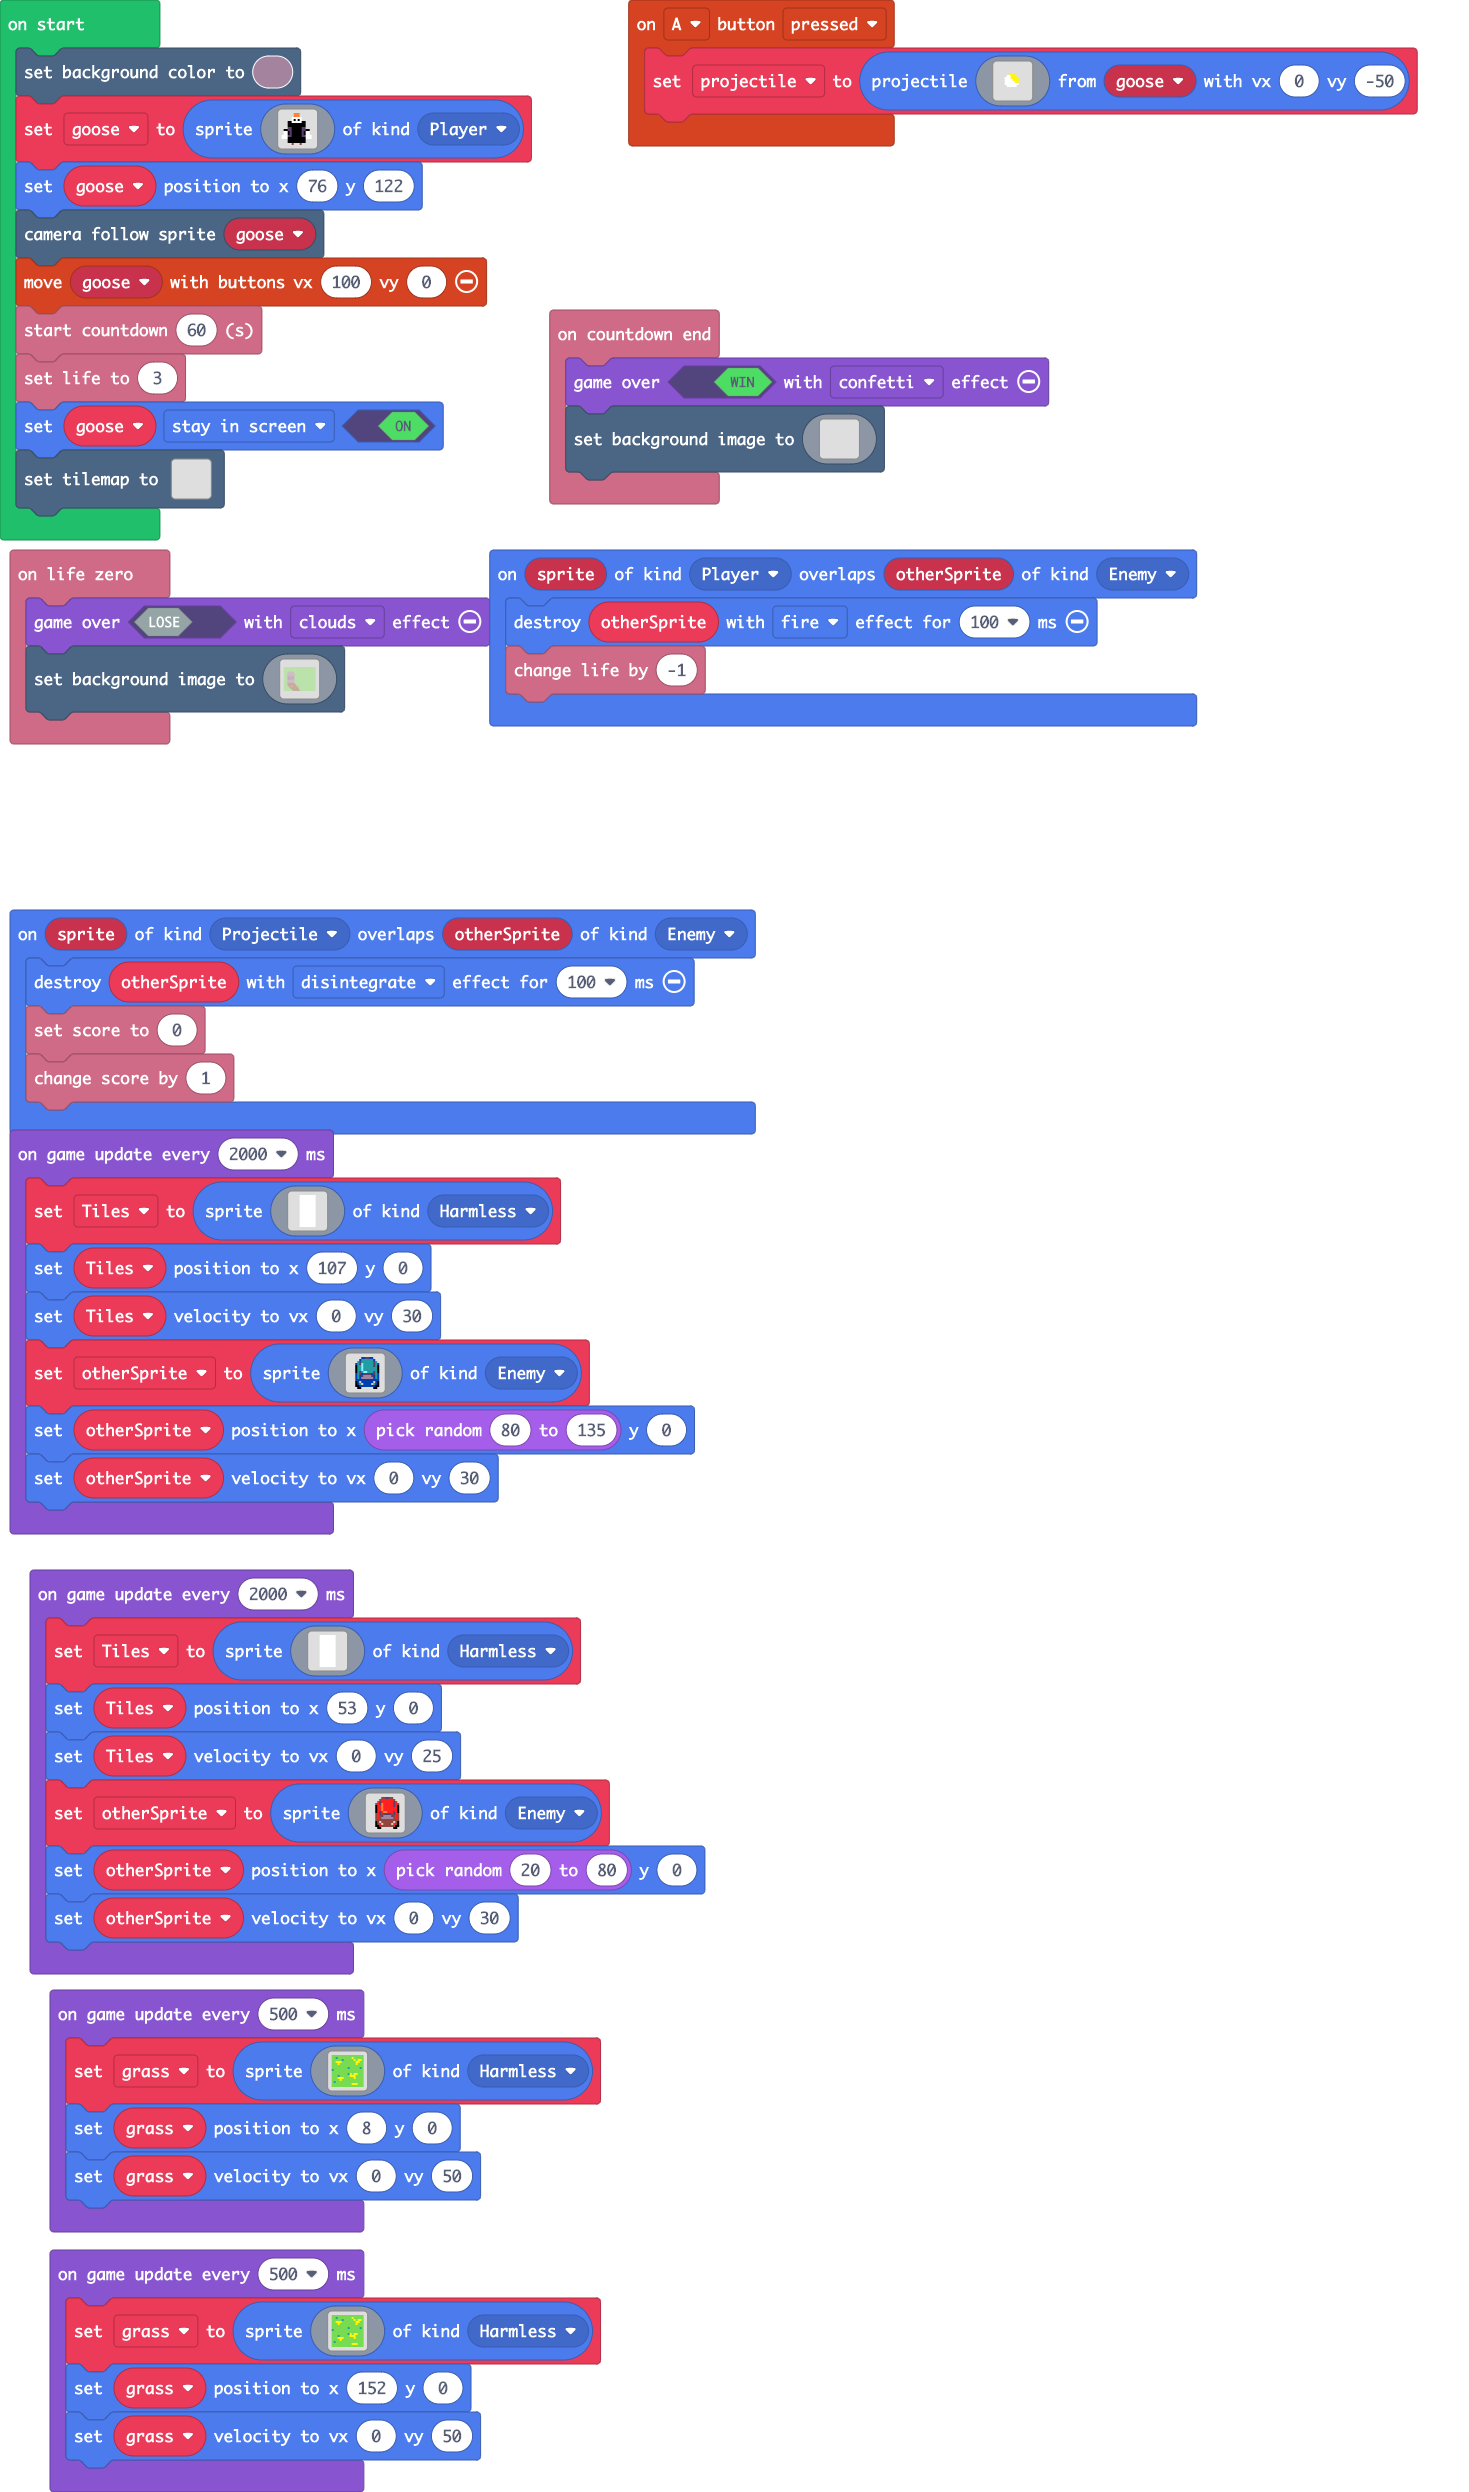
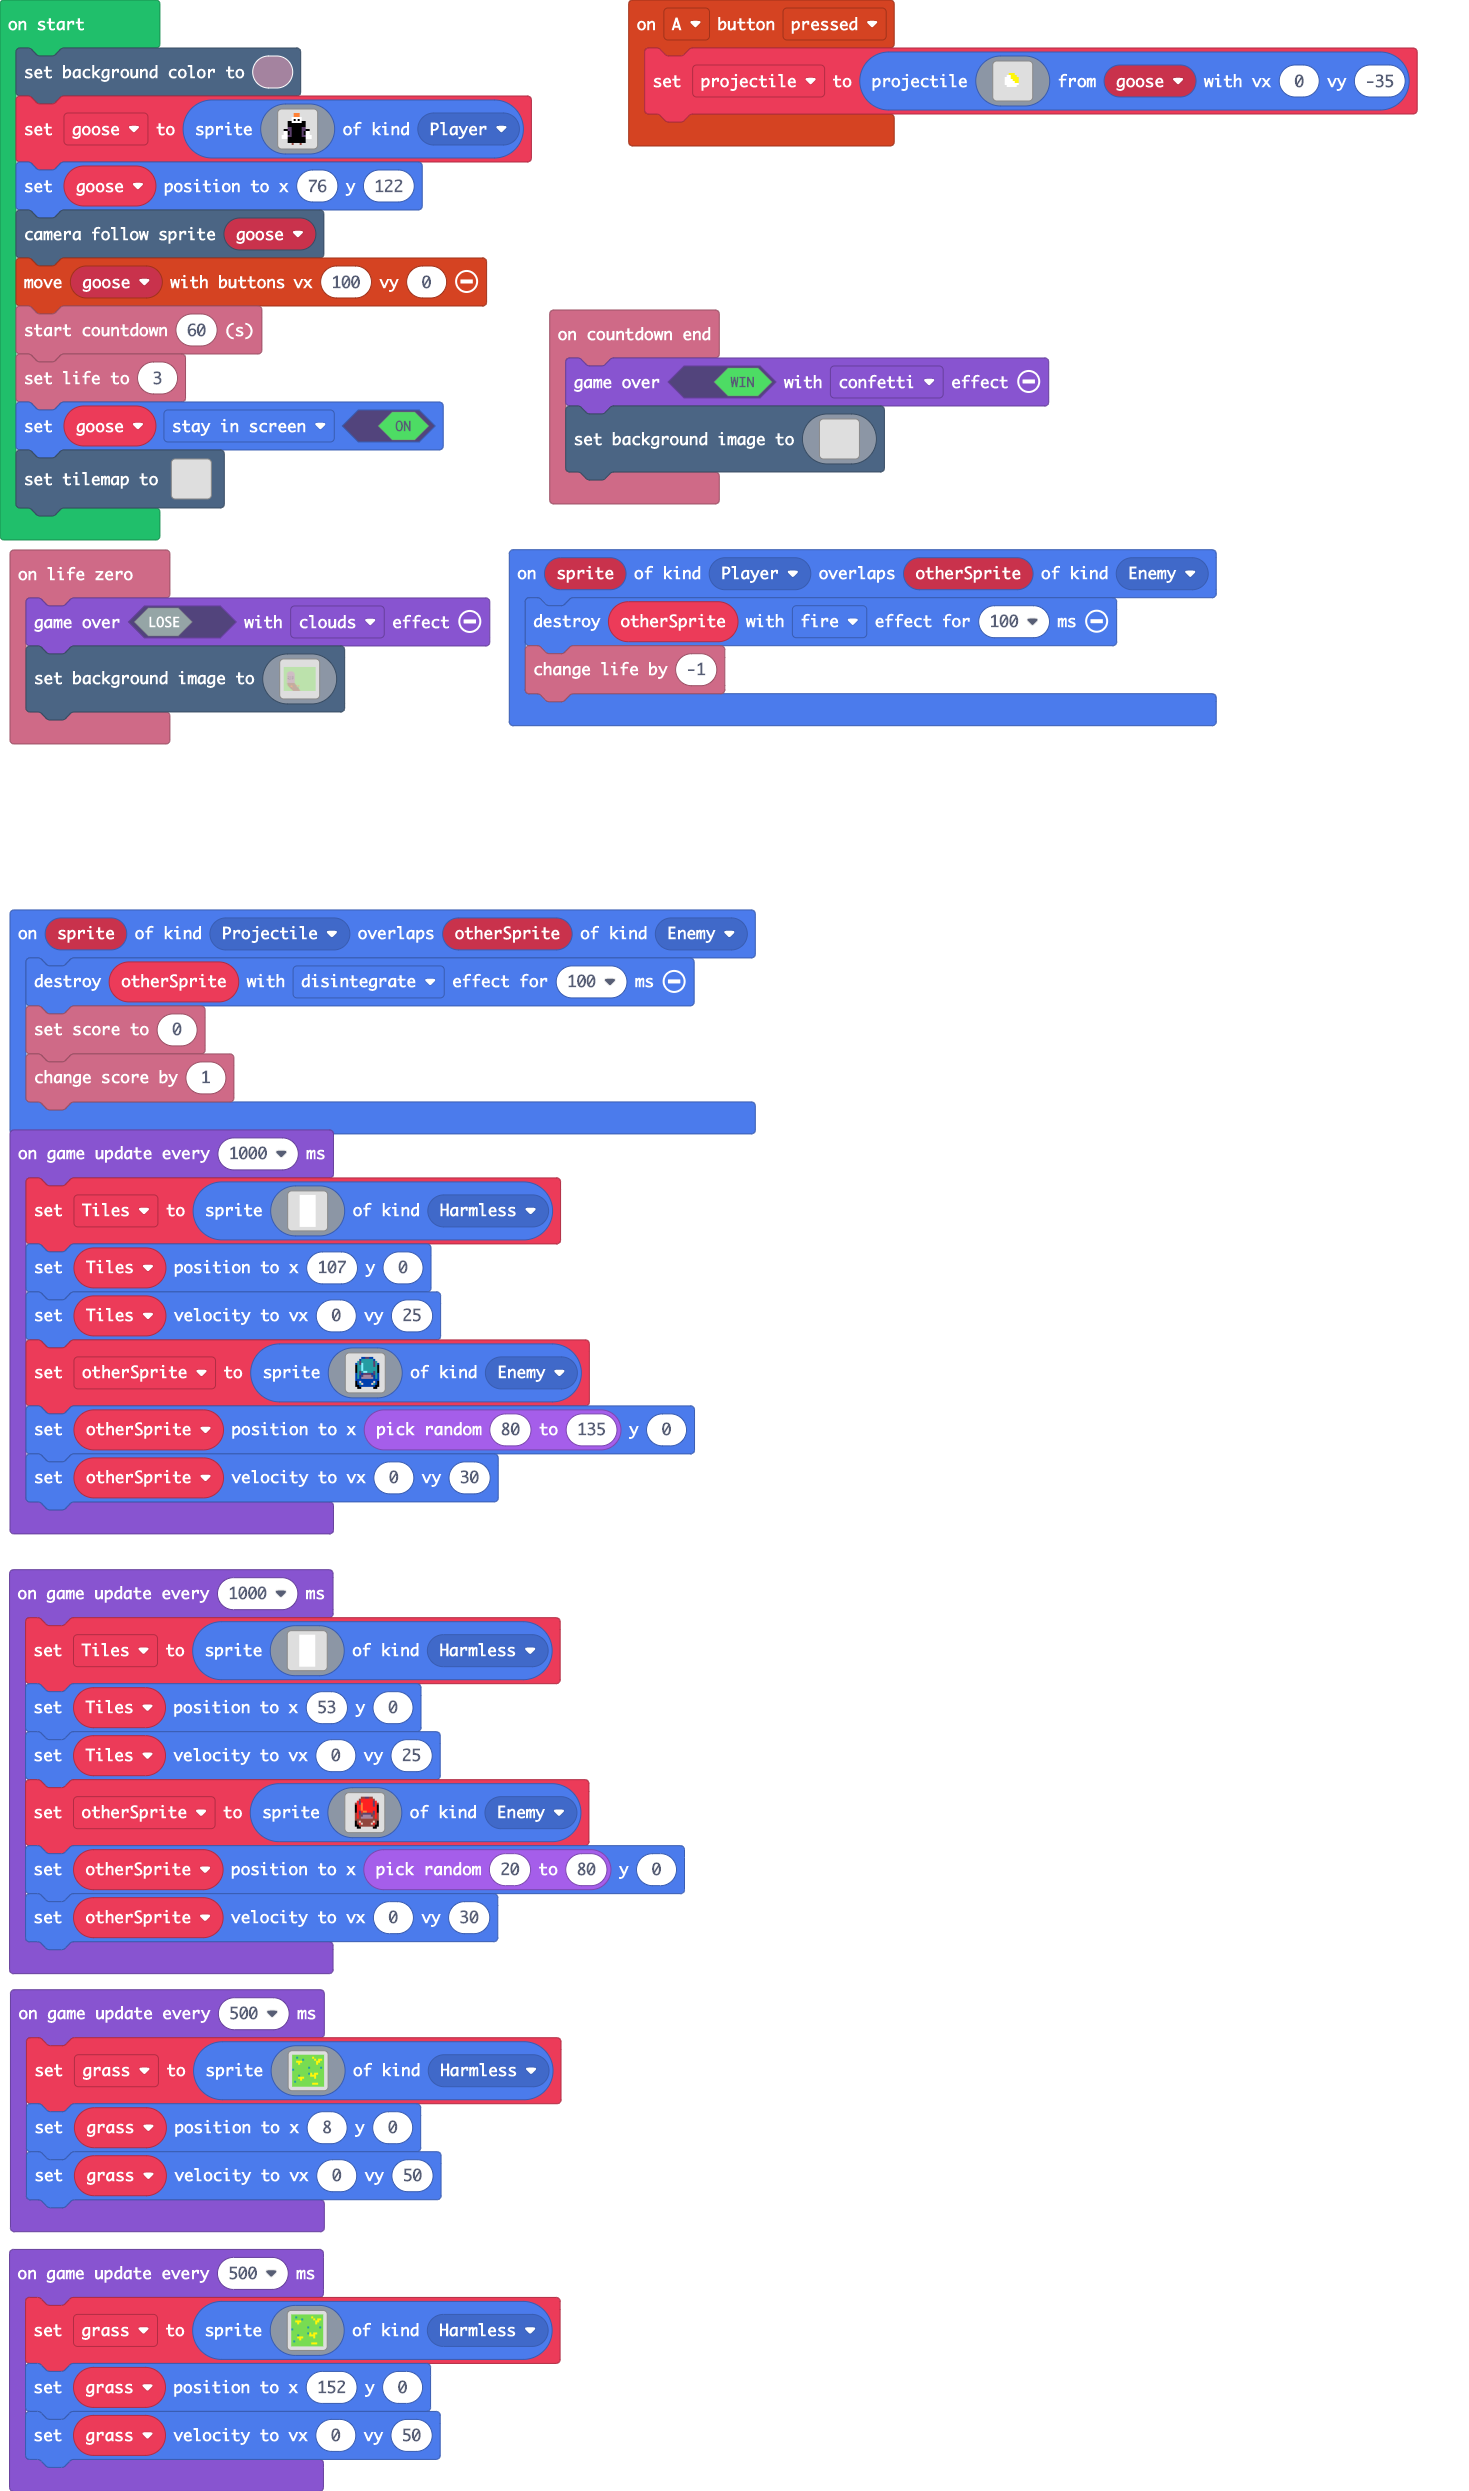
Sudhish - Edit 6

diff --git a/main.ts b/main.ts
@@ -19,7 +19,7 @@ controller.A.onEvent(ControllerButtonEvent.Pressed, function () {
         . . . . . . . . . . . . . . . . 
         . . . . . . . . . . . . . . . . 
         . . . . . . . . . . . . . . . . 
-        `, goose, 0, -50)
+        `, goose, 0, -35)
 })
 info.onCountdownEnd(function () {
     game.over(true, effects.confetti)
@@ -328,7 +328,7 @@ tiles.setTilemap(tiles.createTilemap(hex`0a0010000000000000000000000000000000000
     2 . . . . . . . . 2 
     2 . . . . . . . . 2 
     `, [myTiles.transparency16], TileScale.Sixteen))
-game.onUpdateInterval(2000, function () {
+game.onUpdateInterval(1000, function () {
     Tiles = sprites.create(img`
         . . . . 1 1 1 1 1 1 1 1 . . . . 
         . . . . 1 1 1 1 1 1 1 1 . . . . 
@@ -348,7 +348,7 @@ game.onUpdateInterval(2000, function () {
         . . . . 1 1 1 1 1 1 1 1 . . . . 
         `, SpriteKind.Harmless)
     Tiles.setPosition(107, 0)
-    Tiles.setVelocity(0, 30)
+    Tiles.setVelocity(0, 25)
     otherSprite = sprites.create(img`
         . . . . . . 8 8 c c 8 8 . . . . 
         . . . . . 8 6 6 6 6 6 6 8 . . . 
@@ -370,7 +370,7 @@ game.onUpdateInterval(2000, function () {
     otherSprite.setPosition(randint(80, 135), 0)
     otherSprite.setVelocity(0, 30)
 })
-game.onUpdateInterval(2000, function () {
+game.onUpdateInterval(1000, function () {
     Tiles = sprites.create(img`
         . . . . 1 1 1 1 1 1 1 1 . . . . 
         . . . . 1 1 1 1 1 1 1 1 . . . . 
